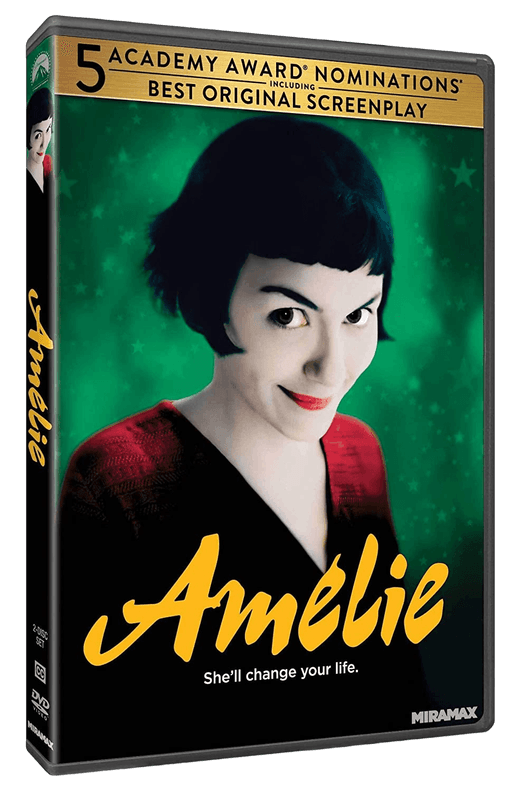
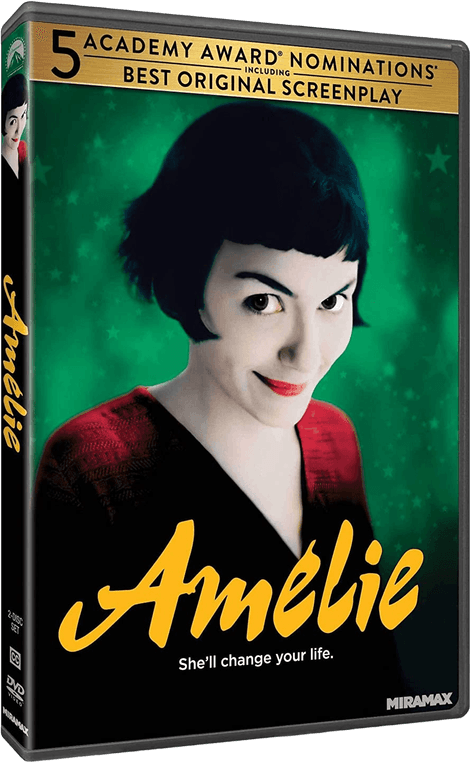
Shelf DVDs: a little more apart at rest; no box shadow on the covers
At rest each cover now sits ~43px past the last (was ~32px); the hover
fan-out is unchanged. The per-cover box shadow is gone (it drew a grey
rectangle around Amélie's transparent margin), and Amélie's PNG is
trimmed to the case.

Claude-Session: https://claude.ai/code/session_01Pfm1BKZ9iVaVJpnCT4yAuH

diff --git a/src/content/playground.ts b/src/content/playground.ts
@@ -50,7 +50,7 @@ export const playground = {
   ] as [number, number][],
   objects: [
     // The three DVDs: one object, overlapping on the shelf; they fan out on hover.
-    { id: 'dvds', src: lalaland, stack: [lalaland, harry, amelie], size: 0.3, home: 4, pile: [0.13, 0.34, -3], name: l('My top 3 romances: La La Land, When Harry Met Sally…, Amélie', 'Meus 3 romances favoritos: La La Land, Harry & Sally, Amélie'), note: l('my top 3 romances', 'meus 3 romances favoritos'), action: { kind: 'link', href: 'https://letterboxd.com/beekid/' } },
+    { id: 'dvds', src: lalaland, stack: [lalaland, harry, amelie], size: 0.348, home: 4, pile: [0.13, 0.34, -3], name: l('My top 3 romances: La La Land, When Harry Met Sally…, Amélie', 'Meus 3 romances favoritos: La La Land, Harry & Sally, Amélie'), note: l('my top 3 romances', 'meus 3 romances favoritos'), action: { kind: 'link', href: 'https://letterboxd.com/beekid/' } },
     { id: 'camera', src: camera, size: 0.23, home: 2, pile: [0.22, 0.6, 4], name: l('Yashica camera', 'Câmera Yashica'), note: l('dad’s old Yashica. click to see the film.', 'a Yashica antiga do meu pai. clique para ver o filme.'), action: { kind: 'film' } },
     { id: 'vogue', src: vogue, size: 0.17, home: 7, pile: [0.74, 0.64, -3], name: l('Vogue', 'Vogue'), note: l('Vogue', 'Vogue'), action: { kind: 'note' } },
     { id: 'popeye', src: popeye, size: 0.17, home: 6, pile: [0.12, 0.86, -2], name: l('Popeye magazine', 'Revista Popeye'), note: l('Popeye magazine', 'revista Popeye'), action: { kind: 'note' } },
